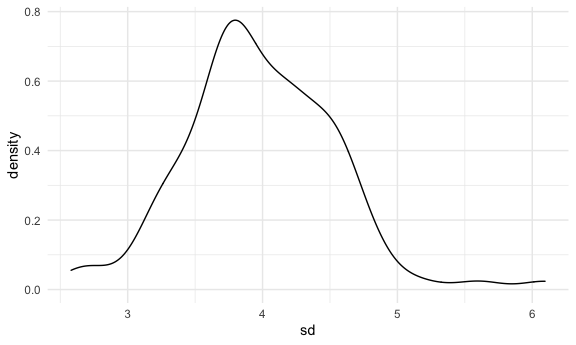
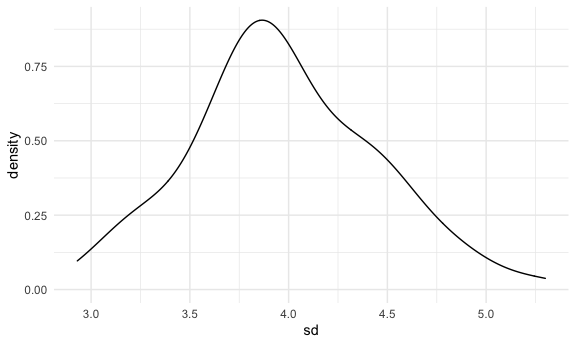
we did simulations

diff --git a/simulation.md b/simulation.md
@@ -29,7 +29,7 @@ sim_mean_sd(30)
     ## # A tibble: 1 x 2
     ##    mean    sd
     ##   <dbl> <dbl>
-    ## 1  2.00  3.80
+    ## 1  4.58  4.51
 
 ## Let’s simulate a lot
 
@@ -50,16 +50,16 @@ bind_rows(output)
     ## # A tibble: 100 x 2
     ##     mean    sd
     ##    <dbl> <dbl>
-    ##  1  2.00  3.73
-    ##  2  3.71  4.54
-    ##  3  3.12  3.62
-    ##  4  4.16  3.02
-    ##  5  3.12  4.29
-    ##  6  2.79  3.76
-    ##  7  2.21  4.96
-    ##  8  3.15  4.22
-    ##  9  3.92  3.35
-    ## 10  3.92  4.20
+    ##  1  3.15  3.19
+    ##  2  2.97  3.68
+    ##  3  3.76  3.56
+    ##  4  3.62  3.52
+    ##  5  3.28  3.83
+    ##  6  3.63  4.49
+    ##  7  2.15  3.43
+    ##  8  2.62  4.94
+    ##  9  3.35  4.43
+    ## 10  2.90  4.41
     ## # … with 90 more rows
 
 Let’s use a loop function
@@ -90,7 +90,7 @@ sim_results %>%
     ## # A tibble: 1 x 2
     ##   avg_samp_mean sd_samp_mean
     ##           <dbl>        <dbl>
-    ## 1          2.81        0.729
+    ## 1          3.01        0.764
 
 ``` r
 sim_results %>%
@@ -98,3 +98,73 @@ sim_results %>%
 ```
 
 <img src="simulation_files/figure-gfm/unnamed-chunk-6-2.png" width="90%" />
+
+## Let’s try other sample sizes.
+
+``` r
+n_list =
+  list(
+    "n = 30" = 30,
+    "n = 60" = 60,
+    "n = 120" = 120,
+    "n = 240" = 240
+  )
+
+output = vector("list", length = 4)
+
+output[[1]] = rerun(100, sim_mean_sd(samp_size = n_list[[1]])) %>% bind_rows()
+
+for (i in 1:4) {
+  
+  output[[i]] = 
+    rerun(100, sim_mean_sd(samp_size = n_list[[i]])) %>%
+    bind_rows()
+    
+}
+```
+
+``` r
+sim_results =
+  tibble(
+  sample_size = c(30, 60, 120, 240)
+  ) %>% 
+  mutate(
+    output_lists = map(.x = sample_size, ~ rerun(1000, sim_mean_sd(.x))),
+    estimate_df = map(output_lists, bind_rows)
+  ) %>%
+  select(-output_lists) %>%
+  unnest(estimate_df) # expand each df
+```
+
+Do some data frame things.
+
+``` r
+sim_results %>%
+  mutate(
+    sample_size = str_c("n = ", sample_size),
+    sample_size = fct_inorder(sample_size)
+  ) %>% 
+  ggplot(aes(x = sample_size, y = mean)) +
+  geom_violin() # symmetric distribution
+```
+
+<img src="simulation_files/figure-gfm/unnamed-chunk-9-1.png" width="90%" />
+
+``` r
+sim_results %>%
+  group_by(sample_size) %>% 
+  summarize(
+    avg_samp_mean = mean(mean),
+    sd_samp_mean = sd(mean)
+  )
+```
+
+    ## `summarise()` ungrouping output (override with `.groups` argument)
+
+    ## # A tibble: 4 x 3
+    ##   sample_size avg_samp_mean sd_samp_mean
+    ##         <dbl>         <dbl>        <dbl>
+    ## 1          30          3.01        0.740
+    ## 2          60          2.98        0.495
+    ## 3         120          2.99        0.371
+    ## 4         240          3.00        0.256
